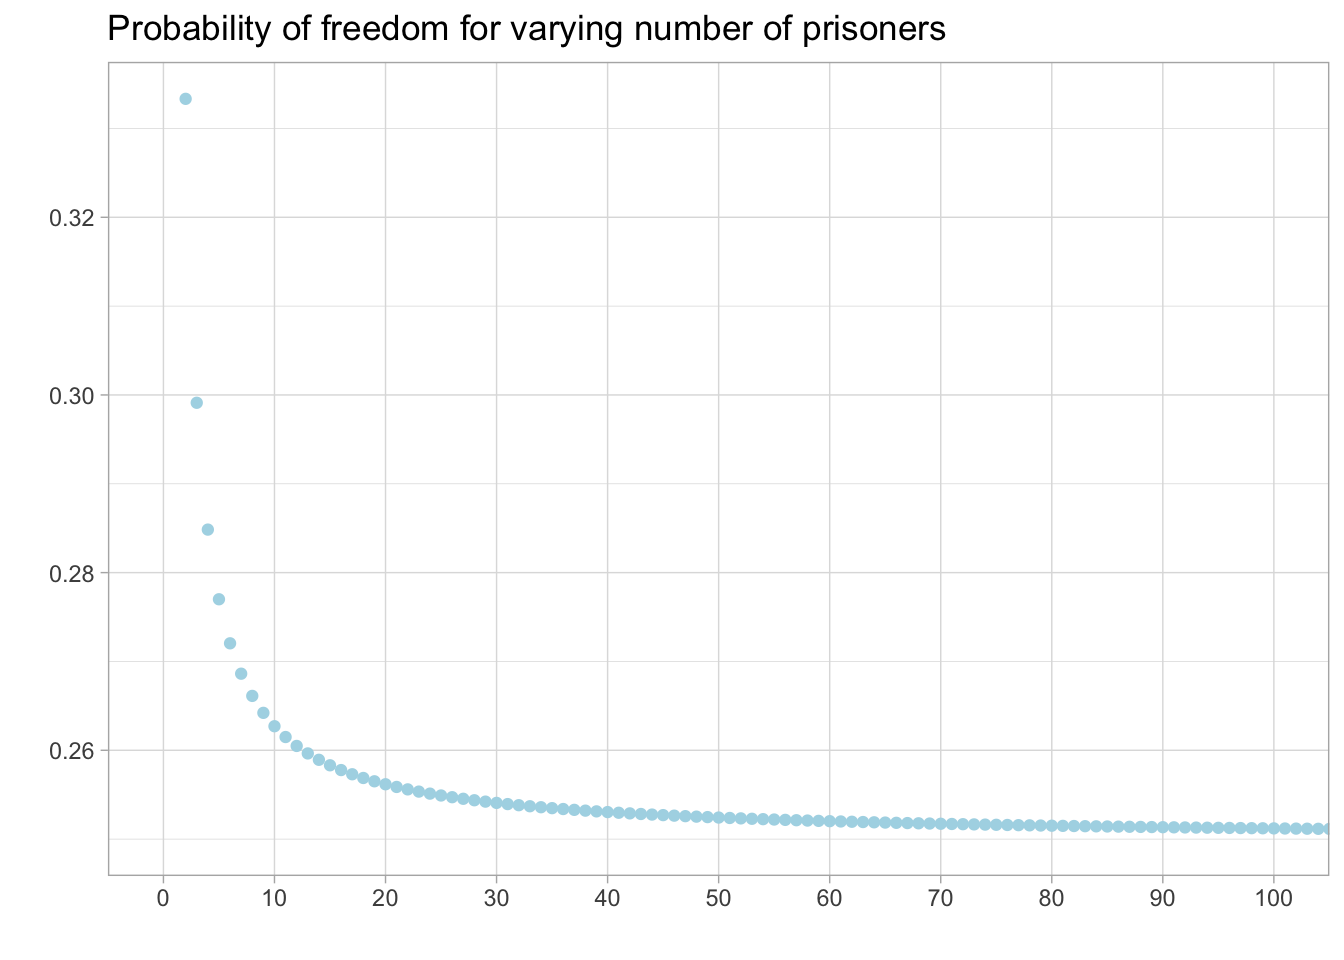
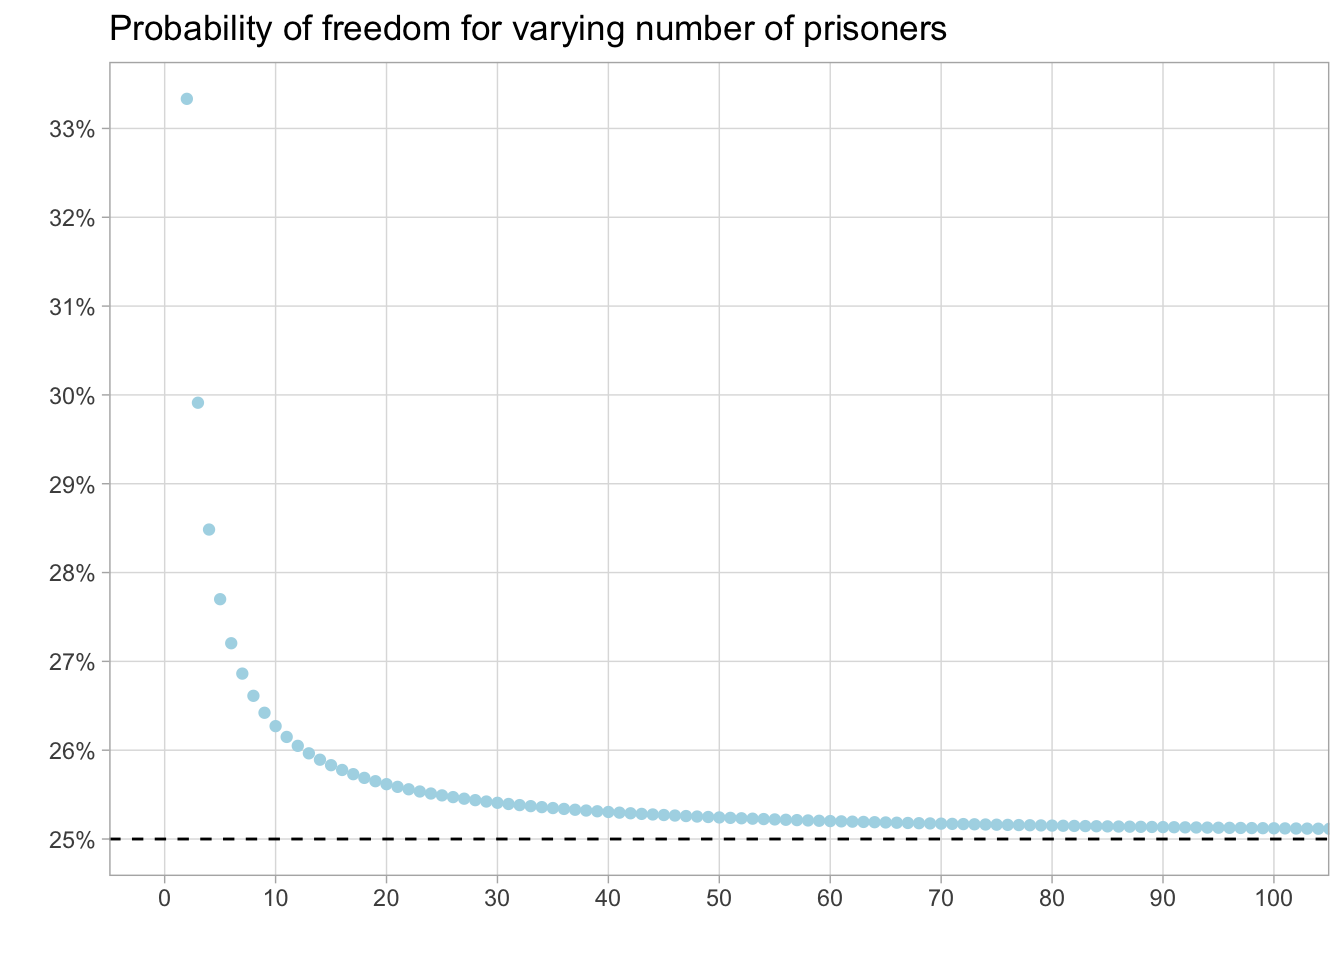
Prisoner coin flip

diff --git a/content/post/2020-05-04-riddler-classic-coin-flip-to-freedom.html b/content/post/2020-05-04-riddler-classic-coin-flip-to-freedom.html
@@ -45,24 +45,23 @@ flipping coins.</p>
 P_F &amp; = \sum_{k=1}^4 \binom{4}{k} c^k(1-c)^{4-k} \cdot \left(\frac{1}{2}\right)^k \\
 &amp; = \sum_{k=1}^4 \binom{4}{k} \left(\frac{c}{2}\right)^k(1-c)^{4-k}  \\
 &amp; = \sum_{k=\mathbf{0}}^4 \binom{4}{k} \left(\frac{c}{2}\right)^k(1-c)^{4-k} - (1 -c)^4 \\
-&amp; = [\frac{c}{2} + (1-c)]^4 - (1 - c)^4 \\
-&amp; = [1 - \frac{c}{2}]^4 - (1 -c)^4 \\
-&amp; = \left(\frac{1}{2}\right)^4(2-c)^4 - (1-c)^4
+&amp; = \left(\frac{c}{2} + (1-c)\right)^4 - (1 - c)^4 \\
+&amp; = \left(1 - \frac{c}{2}\right)^4 - (1 -c)^4 \\
 \end{aligned}
 \]</span></p>
 <p>Since we’re using the binomial expansion, we can generalize this to any number
 of prisoners, <span class="math inline">\(n\)</span>.</p>
 <p><span class="math display">\[
 \begin{aligned}
-P_W &amp; = \left(\frac{1}{2}\right)^n(2-c)^n - (1-c)^n
+P_F &amp; = \left(1-\frac{c}{2}\right)^n - (1-c)^n
 \end{aligned}
 \]</span></p>
-<p>What is the optimal value of the cutoff <span class="math inline">\(c\)</span>? Let’s take the derivative of <span class="math inline">\(P_W\)</span>
+<p>What is the optimal value of the cutoff <span class="math inline">\(c\)</span>? Let’s take the derivative of <span class="math inline">\(P_F\)</span>
 with respect to <span class="math inline">\(c\)</span>, and see what cutoff will maximize our chances.</p>
 <p><span class="math display">\[ 
 \begin{aligned}
-P_W &amp; = \left(\frac{1}{2}\right)^n(2-c)^n - (1-c)^n \\
-\frac{dP}{dc} &amp; =  \left(\frac{1}{2}\right)^n \cdot n (2-c)^{n-1}(-1) - n(1-c)^{n-1}(-1) \\
+P_F &amp; = \left(1-\frac{c}{2}\right)^n - (1-c)^n \\
+\frac{dP_F}{dc} &amp; =  n \left(1-\frac{c}{2}\right)^{n-1}\left(-\frac{1}{2}\right) - n(1-c)^{n-1}(-1) \\
 0 &amp; = \left(\frac{1}{2}\right)^n \cdot (2-c)^{n-1} - (1-c)^{n-1} \\
 (1 - c)^{n-1} &amp;= \left(\frac{1}{2}\right)^n \cdot (2-c)^{n-1} \\
 (1 - c)^{n-1} &amp;= \left(\frac{1}{2}\right)^{n-1} \cdot \left(\frac{1}{2}\right) \cdot (2-c)^{n-1} \\
@@ -77,6 +76,19 @@ r &amp; = 2^{1/(1-n)} \\
 2 - 2c &amp; = 2r - cr \\
 2 - 2r &amp; = 2c - cr \\
 c &amp; = \frac{2 - 2r}{2- r} \\
+\end{aligned}
+\]</span></p>
+</div>
+<div id="plotting-results" class="section level2">
+<h2>Plotting results</h2>
+<p>As we increase the number of prisoners, the cutoff value <span class="math inline">\(c\)</span> that maximizes
+our probability of freedom predictably drives down quickly.</p>
+<p>What isn’t quite as obvious is that the probability would converge to a value
+close to <strong>25%</strong>. Maybe we could do a binomial expansion and see something
+geometric within it?</p>
+<p><span class="math display">\[
+\begin{aligned}
+P_F &amp; = \left(1-\frac{c}{2}\right)^n - (1-c)^n
 \end{aligned}
 \]</span></p>
 <pre class="r"><code># library(&quot;tidyverse&quot;)
@@ -114,7 +126,11 @@ df &lt;- tibble(n = seq(2, 10000)) %&gt;%
        y = &quot;&quot;) +
   scale_x_continuous(breaks = seq(0, 100, 10), 
                      minor_breaks = NULL) +
-  coord_cartesian(xlim = c(0, 100))</code></pre>
+  scale_y_continuous(labels = scales::percent_format(accuracy=1),
+                     breaks = seq(0.25, 0.33, .01),
+                     minor_breaks = NULL) +
+  coord_cartesian(xlim = c(0, 100)) +
+  geom_hline(lty=2, yintercept = 0.25)</code></pre>
 <p><img src="/post/2020-05-04-riddler-classic-coin-flip-to-freedom_files/figure-html/unnamed-chunk-1-1.png" width="672" /></p>
 <pre class="r"><code>df %&gt;%
   ggplot(aes(x = n, y = c)) +
@@ -126,13 +142,6 @@ df &lt;- tibble(n = seq(2, 10000)) %&gt;%
        x = &quot;&quot;,
        y = &quot;&quot;)</code></pre>
 <p><img src="/post/2020-05-04-riddler-classic-coin-flip-to-freedom_files/figure-html/log_relationship-1.png" width="672" /></p>
-<pre class="r"><code>df %&gt;%
-  ggplot(aes(x = n, y = p)) +
-  geom_point(color=&quot;lightblue&quot;) +
-  scale_x_log10() +
-  scale_y_log10(limits = c(.1, .5)) +
-  theme_light()</code></pre>
-<p><img src="/post/2020-05-04-riddler-classic-coin-flip-to-freedom_files/figure-html/win_prob_limit-1.png" width="672" /></p>
 </div>
 <div id="limit" class="section level2">
 <h2>Limit</h2>
